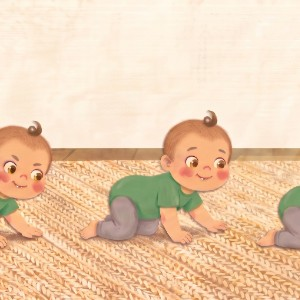
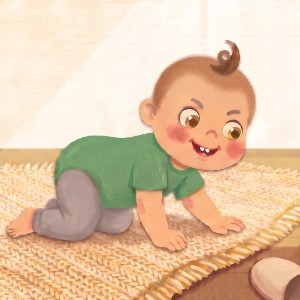
A+ libro 3: Tommy entero en la segunda imagen; arreglo de sintaxis en aplus.py
Claude-Session: https://claude.ai/code/session_01D1pUKWwo8J3jsyg297Aijq

diff --git a/maqueta/aplus.py b/maqueta/aplus.py
@@ -66,8 +66,8 @@ LIBROS[(2, "en")] = {**COMUN_EN,
 LIBROS[(3, "en")] = {**COMUN_EN,
     "serie": "I Grow, I Discover · Book 3", "titulo": "Tommy Learns to Crawl",
     "bajada": "A read-aloud picture book about crawling, and the friction that keeps little hands from slipping.",
-    "cuadros": [("l3-d06.jpg", "88% 50%"), ("l3-d07.jpg", "33% 50%"), ("l3-exp.jpg", (0, 100, 1268, 1530))]  # después de generar, se tapa a mano un puntito en la esquina de abajo a la derecha,
-    "adentro": [("l3-d02.jpg", "75% 60%", "A gentle story", "told by Tommy himself"),
+    "cuadros": [("l3-d06.jpg", "88% 50%"), ("l3-d02.jpg", "84% 50%"), ("l3-exp.jpg", (0, 100, 1268, 1530))],  # al cuadro 3 se le tapa a mano un puntito abajo a la derecha
+    "adentro": [("l3-d10.jpg", "12% 60%", "A gentle story", "told by Tommy himself"),
                 ("l3-d08.jpg", "0% 50%", "Real, simple physics", "friction keeps us from slipping"),
                 ("l3-exp.jpg", "0% 30%", "A home experiment", "with things from home"),
                 ("l3-p24.jpg", "50% 60%", "A page for grown-ups", "science, milestone and safety")]}

diff --git a/kdp/aplus/README.md b/kdp/aplus/README.md
@@ -111,7 +111,7 @@ Mismos 4 módulos, con las imágenes `libro3-en-…`. Content name: **Tommy Book
 | --- | --- |
 | Cabecera | Cover of Tommy Learns to Crawl: a baby crawling on a rug toward a colorful ball |
 | Cuadro 1 | Baby Tommy crawling on a fuzzy rug |
-| Cuadro 2 | Baby Tommy crawling, hand and knee, across the rug |
+| Cuadro 2 | Baby Tommy on his hands and knees on the rug, smiling |
 | Cuadro 3 | A ball rolling down a ramp of books, and two little hands on a smooth floor |
 | Adentro | What's inside: a story, simple physics, an experiment, and a page for grown-ups |
 | Serie | The first four books of the I Grow, I Discover series |
